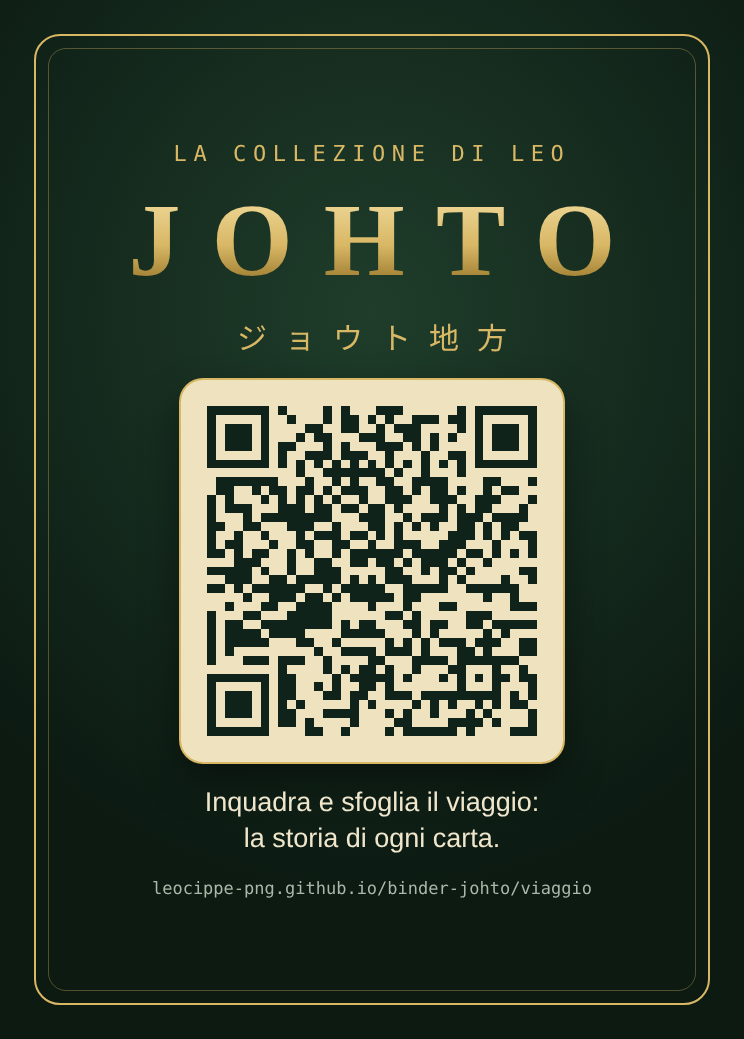
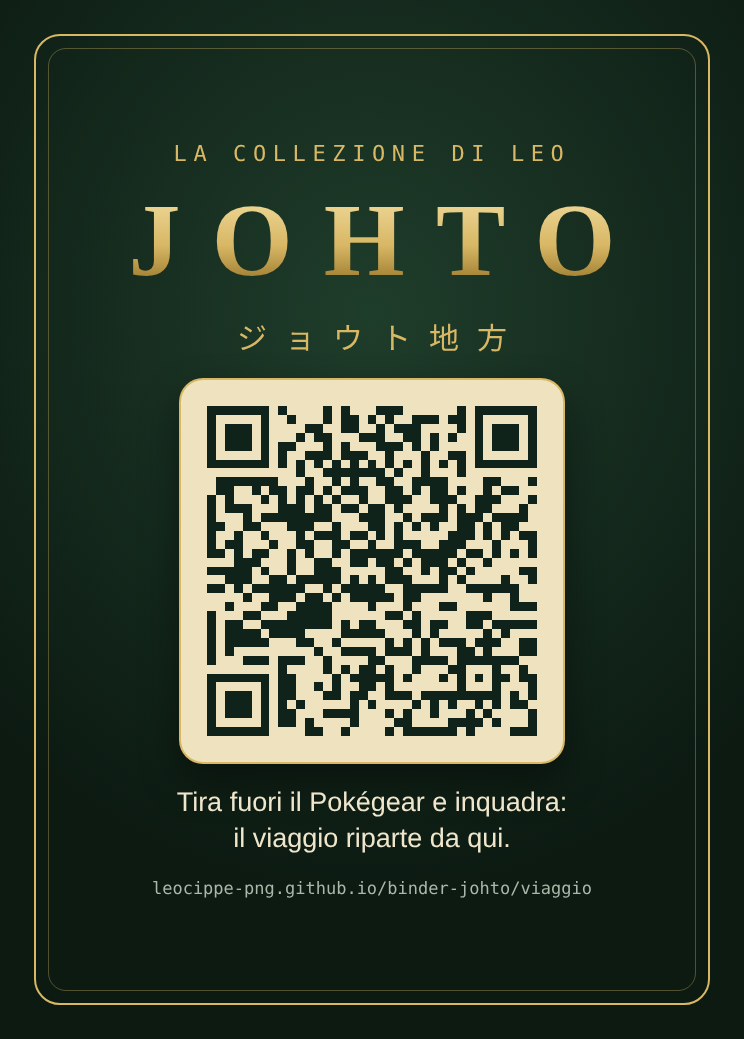
Testi del viaggio riscritti con i ricordi di Johto
- racconti delle 29 tappe (anche nell'app), copertina, introduzione, capitoli, finale e schede delle carte
- stampa del QR con il nuovo invito

Claude-Session: https://claude.ai/code/session_011ix2jEugGi2k3c1ThNinWG

Changed region(s): [[0.2473, 0.7392, 0.7419, 0.8316]]

diff --git a/collezione.js b/collezione.js
@@ -2,7 +2,7 @@
 // Unico file da modificare per cambiare carte e stampe: l'app lo legge all'avvio.
 // Ogni tasca: t = "c" carta / "p" stampa, n = nome, s = set e numero, note, f = anchor · arita · pers · ita
 window.COLLEZIONE={
- versione:"2026-11-17",
+ versione:"2026-11-19",
  medaglie:[["Zefiro",9],["Alveare",13],["Piana",17],["Nebbia",21],["Tempesta",29],["Minerale",27],["Gelo",35],["Levante",37]],
  capitoli:[["Il viaggio inizia",["frontespizio","foglianova","partenza","percorsi-29-32"]],["Le palestre di Johto",["violapoli","alfa","azalina","lecci","fiordoropoli","percorsi-35-36","amarantopoli","torre-bruciata","olivinopoli","faro","fiorlisopoli","vorticose","lago","mogania","ebanopoli"]],["Verso la Lega",["ho-oh","vittoria","superquattro-1","superquattro-2","campione"]],["Dopo la Lega",["luce-ombra","kanto","monte-argento","hgss","vetta"]]],
  set:{
@@ -12,7 +12,7 @@ window.COLLEZIONE={
  nomiInglesi:{"Energia Fuoco":"Fire Energy","Energia Erba":"Grass Energy","Energia Acqua":"Water Energy","Energia Lampo":"Lightning Energy","Energia Metallo":"Metal Energy","Energia Psico":"Psychic Energy","Energia Lotta":"Fighting Energy","Energia Oscurità":"Darkness Energy","Altopiano Blu":"Indigo Plateau","Cinturanera":"Black Belt","Tifo della ragazza pon pon":"Cheerleader's Cheer","Chiacchiere del presentatore":"Emcee's Chatter","Giudice":"Judge","Domande dell'intervistatore":"Interviewer's Questions","Metodo d'allenamento del Prof. Elm":"Professor Elm's Training Method","Teletrasporto di Bill":"Bill's Teleporter","Pescatore":"Fisherman","Trucco del Team Rocket":"Team Rocket's Trickery","Sguardo di Jasmine":"Jasmine's Gaze","Avventura di Ethan":"Ethan's Adventure","Lezione del Prof. Elm":"Professor Elm's Lecture","Valerio (Falkner)":"Falkner","Torre Sprout":"Sprout Tower","Allenamento del Saggio":"Sage's Training","Rovine d'Alfa":"Ruins of Alph","Muro delle Rovine":"Ruin Wall","Litografia di Alfa":"Alph Lithograph","Chiara (Whitney)":"Whitney","Latte Mumù":"Moomoo Milk","Torre Radio":"Radio Tower","Fioraia":"Flower Shop Lady","Sala Giochi":"Arcade Game","Angelo (Morty)":"Morty","Determinazione di Angelo":"Morty's Conviction","Torre Bruciata":"Burned Tower","Gyarados rosso":"Gyarados","Covo Rocket":"Rocket's Hideout","Dewgong Luce":"Light Dewgong","Dragonite Luce":"Light Dragonite","Pino (Will)":"Will","Trappola di Koga":"Koga's Trap","Sfida di Rosso":"Red's Challenge","Energia Arcobaleno":"Rainbow Energy","Feraligatr Prime":"Feraligatr","Donphan Prime":"Donphan"},
  tappe:[
   {id:"frontespizio",title:"Frontespizio",jp:"はじまり",
-   desc:"Pagina singola a destra. Riprende la copertina: la pagoda e il faro, poi la mappa e il via del Prof. Elm.",
+   desc:"Prima di uscire di casa. La pagoda e il faro che si vedono da lontano, la mappa del Pokégear aperta per la prima volta, la porta del laboratorio di Elm.",
    pages:[
     {n:1,h:"Il viaggio comincia",s:[
      {"t":"p","n":"Torre Campana","s":"Stampa oro su verde","note":"Riprende la pagoda dorata della copertina."},
@@ -27,7 +27,7 @@ window.COLLEZIONE={
     ]}
    ]},
   {id:"foglianova",title:"Borgo Foglianova",jp:"ワカバタウン",
-   desc:"Gli starter. A sinistra la linea classica, tutta Expedition, con il Feraligatr di Arita. A destra una pagina intera per Feraligatr: la linea dell'epoca Oro e Argento, quella del remake e il Mega moderno.",
+   desc:"Il vento che soffia sul borgo, la mamma che ti regola l'orologio, tre Poké Ball sul tavolo. A sinistra la scelta di sempre, una linea per riga; a destra il compagno di questo binder, Feraligatr, in tre epoche.",
    pages:[
     {n:2,h:"Expedition, una linea per riga",s:[
      {"t":"c","n":"Chikorita","s":"Expedition 99/165"},
@@ -53,7 +53,7 @@ window.COLLEZIONE={
     ]}
    ]},
   {id:"partenza",title:"La partenza",jp:"はじまりのひ",
-   desc:"Il laboratorio di Elm, le tre Poké Ball sul tavolo e l'uovo misterioso; di fronte Ethan, il protagonista di HeartGold e SoulSilver, con la sua squadra.",
+   desc:"Il laboratorio, la finestra lasciata aperta da un ragazzo dai capelli rossi, l'uovo che ti affida Mr. Pokémon. Di fronte Ethan, che anni dopo ha rifatto la stessa strada.",
    pages:[
     {n:4,h:"Il laboratorio di Elm",s:[
      {"t":"c","n":"Professor Elm","s":"Neo Genesis 96/111","note":"La prima carta del professore, uscita insieme a Oro e Argento.","f":["pers"]},
@@ -79,7 +79,7 @@ window.COLLEZIONE={
     ]}
    ]},
   {id:"percorsi-29-32",title:"Percorsi 29–32",jp:"みち",
-   desc:"I primi incontri sull'erba alta, da Fiorpescopoli fino alla strada per Violapoli.",
+   desc:"Sentret che spunta dall'erba alta, Hoothoot che esce solo di notte: è qui che l'orologio ha cominciato a contare davvero. Il vecchietto di Fiorpescopoli ti fa da guida, poi la strada sale verso Violapoli.",
    pages:[
     {n:6,h:"Percorso 29 e Fiorpescopoli",s:[
      {"t":"c","n":"Sentret","s":"Neo Genesis 71/111","note":"Neo Genesis è il set uscito insieme a Oro e Argento: le prime illustrazioni di Johto in assoluto."},
@@ -105,7 +105,7 @@ window.COLLEZIONE={
     ]}
    ]},
   {id:"violapoli",title:"Violapoli",jp:"キキョウシティ",
-   desc:"La Torre Sprout dei monaci e la palestra volante di Valerio.",
+   desc:"La Torre Sprout che ondeggia a ogni passo attorno al suo pilastro, i monaci con i loro Bellsprout; poi Valerio e i suoi uccelli, la prima medaglia.",
    pages:[
     {n:8,h:"Torre Sprout",s:[
      {"t":"c","n":"Torre Sprout","s":"Neo Genesis 97/111 · Stadio","note":"La torre di legno di Violapoli come carta stadio dell'epoca."},
@@ -131,7 +131,7 @@ window.COLLEZIONE={
     ]}
    ]},
   {id:"alfa",title:"Rovine d'Alfa",jp:"アルフのいせき",
-   desc:"Le prime righe delle due pagine, lette a binder aperto, scrivono J O H T O ! con gli Unown.",
+   desc:"Le lastre da ricomporre, i segni sulle pareti che nessuno sapeva leggere. Apri il binder e leggi le prime righe delle due pagine, da sinistra a destra.",
    pages:[
     {n:10,h:"La camera degli enigmi",s:[
      {"t":"c","n":"Unown J","s":"Legends Awakened 76/146"},
@@ -157,7 +157,7 @@ window.COLLEZIONE={
     ]}
    ]},
   {id:"azalina",title:"Azalina",jp:"ヒワダタウン",
-   desc:"La Grotta di Mezzo e il Pozzo Slowpoke, dove il Team Rocket taglia le code; di fronte la palestra di Raffaello.",
+   desc:"Il pozzo dove i Rocket tagliavano le code agli Slowpoke, Franz e le sue Ball ricavate dalle ghicocche; di fronte Raffaello e quello Scyther che ti ha fatto sudare.",
    pages:[
     {n:12,h:"Grotta di Mezzo e Pozzo Slowpoke",s:[
      {"t":"c","n":"Slowpoke","s":"30th Celebration 016/128","note":"Gli Slowpoke del pozzo, a cui il Team Rocket taglia la coda. Dal set del 30° anniversario."},
@@ -183,7 +183,7 @@ window.COLLEZIONE={
     ]}
    ]},
   {id:"lecci",title:"Bosco di Lecci e Pensione Pokémon",jp:"ウバメのもり",
-   desc:"Il santuario di Celebi nel bosco; di fronte la Pensione Pokémon sul Percorso 34, dove nascono le uova e i Pokémon baby.",
+   desc:"Il bosco dove il Farfetch'd ti scappa sempre dalla parte sbagliata, il piccolo santuario di legno e chi viaggia nel tempo. Di fronte la Pensione sul Percorso 34: lasci due Pokémon e, al ritorno, trovi un uovo.",
    pages:[
     {n:14,h:"Il santuario del bosco",s:[
      {"t":"c","n":"Celebi","s":"Neo Revelation 3/64 · holo","note":"Il Celebi dell'era Oro e Argento, per il santuario del Bosco di Lecci."},
@@ -209,7 +209,7 @@ window.COLLEZIONE={
     ]}
    ]},
   {id:"fiordoropoli",title:"Fiordoropoli",jp:"コガネシティ",
-   desc:"La città più grande: la Torre Radio, la Sala Giochi, Bill e il suo Eevee; di fronte la palestra di Chiara.",
+   desc:"La città grande: la Sala Giochi, la Torre Radio, il Treno Magnetico ancora fermo, Bill che ti affida il suo Eevee. Di fronte Chiara, il suo Miltank e un Rotolamento che non si dimentica; quando perde, scoppia a piangere.",
    pages:[
     {n:16,h:"Torre Radio e Sala Giochi",s:[
      {"t":"c","n":"Torre Radio","s":"Neo Destiny 95/105 · Stadio","note":"La Torre Radio di Fiordoropoli, poi occupata dal Team Rocket."},
@@ -235,7 +235,7 @@ window.COLLEZIONE={
     ]}
    ]},
   {id:"percorsi-35-36",title:"Percorsi 35–36",jp:"しぜんこうえん",
-   desc:"Il Parco Nazionale con la gara Pigliamosche e il finto albero che blocca il Percorso 36.",
+   desc:"Il Parco Nazionale e la Gara Pigliamosche, il martedì, il giovedì e il sabato. Poco più avanti, un albero che si muove quando lo bagni.",
    pages:[
     {n:18,h:"Parco Nazionale",s:[
      {"t":"p","n":"Parco Nazionale","s":"Stampa"},
@@ -261,7 +261,7 @@ window.COLLEZIONE={
     ]}
    ]},
   {id:"amarantopoli",title:"Amarantopoli",jp:"エンジュシティ",
-   desc:"La città antica: le cinque ragazze kimono con le evoluzioni di Eevee; di fronte la palestra di Angelo.",
+   desc:"La città più antica di Johto: il teatro delle danze, le cinque sorelle in kimono con le loro Eevee evolute, due torri che si guardano da lontano. Di fronte Angelo, che si allena da sempre per vedere un Pokémon leggendario.",
    pages:[
     {n:20,h:"Le ragazze kimono",s:[
      {"t":"c","n":"Espeon","s":"Undaunted 2/90 · holo","note":"Tutta la pagina viene da Undaunted: le cinque ragazze kimono e i loro Eevee evoluti sono una scena del remake."},
@@ -287,7 +287,7 @@ window.COLLEZIONE={
     ]}
    ]},
   {id:"torre-bruciata",title:"Torre Bruciata",jp:"やけたとう",
-   desc:"La torre andata a fuoco, da cui fuggono Raikou, Entei e Suicune; di fronte le tre Bestie in tutte le loro versioni.",
+   desc:"Una torre arsa in una notte di temporale, tre Pokémon caduti tra le fiamme e riportati in vita da un uccello arcobaleno. Scendi nel sotterraneo: si alzano e corrono via. Uno lo inseguirai per tutta Johto.",
    pages:[
     {n:22,h:"Torre Bruciata",s:[
      {"t":"p","n":"Il risveglio","s":"Stampa","note":"Le tre Bestie che fuggono dalla Torre Bruciata."},
@@ -313,7 +313,7 @@ window.COLLEZIONE={
     ]}
    ]},
   {id:"olivinopoli",title:"Percorsi 38–39 e Olivinopoli",jp:"アサギシティ",
-   desc:"La Fattoria MuMu sulla strada per il mare, poi il porto di Olivinopoli.",
+   desc:"La Fattoria MuMu, il latte che rimette in piedi la squadra, il Miltank malato che guarisce con le bacche. Poi l'odore del porto e la nave che porta a Kanto.",
    pages:[
     {n:24,h:"Fattoria MuMu",s:[
      {"t":"p","n":"Fattoria MuMu","s":"Stampa"},
@@ -339,7 +339,7 @@ window.COLLEZIONE={
     ]}
    ]},
   {id:"faro",title:"Faro di Olivinopoli",jp:"とうだい",
-   desc:"Il faro dove Jasmine assiste Amphy, l'Ampharos malato; di fronte la sua palestra.",
+   desc:"Il faro senza luce: in cima Amphy respira a fatica e Jasmine non vuole lasciarla sola. Torni da Fiorlisopoli con la medicina, e solo allora lei scende ad aspettarti in palestra.",
    pages:[
     {n:26,h:"Il faro e Amphy",s:[
      {"t":"p","n":"Amphy al faro","s":"Stampa","note":"L'Ampharos malato che Jasmine assiste in cima al faro; la medicina arriva da Fiorlisopoli, sulla pagina accanto."},
@@ -365,7 +365,7 @@ window.COLLEZIONE={
     ]}
    ]},
   {id:"fiorlisopoli",title:"Fiorlisopoli",jp:"タンバシティ",
-   desc:"Dall'altra parte del mare, la città della farmacia e di Furio.",
+   desc:"Dall'altra parte del mare, a nuoto o in Surf: la farmacia con la medicina per Amphy e Furio che si allena sotto la cascata con il suo Poliwrath.",
    pages:[
     {n:28,h:"Percorsi 40–41 e Fiorlisopoli",s:[
      {"t":"p","n":"Farmacia di Fiorlisopoli","s":"Stampa","note":"Dove si compra la Medicina Segreta per Amphy."},
@@ -391,7 +391,7 @@ window.COLLEZIONE={
     ]}
    ]},
   {id:"vorticose",title:"Isole Vorticose",jp:"うずまきじま",
-   desc:"Il mare tra Olivinopoli e Fiorlisopoli e, negli abissi delle isole, Lugia.",
+   desc:"Le correnti che girano attorno alle isole, scale nel buio, un vortice dopo l'altro fino in fondo. Lì, nella grotta più profonda, Lugia.",
    pages:[
     {n:30,h:"Il mare delle isole",s:[
      {"t":"c","n":"Remoraid","s":"Aquapolis 105","note":"Illustrata da Mitsuhiro Arita.","f":["arita"]},
@@ -417,7 +417,7 @@ window.COLLEZIONE={
     ]}
    ]},
   {id:"lago",title:"Lago d'Ira e Mogania",jp:"いかりのみずうみ",
-   desc:"Il Gyarados rosso e Lance al lago; di fronte il covo del Team Rocket sotto il negozio di Mogania.",
+   desc:"Un segnale ha costretto i Magikarp del lago a evolversi: in mezzo, un Gyarados rosso. Sulla riva Lance ti chiede di seguirlo; a Mogania, sotto il negozio di souvenir, il covo del Team Rocket.",
    pages:[
     {n:32,h:"Lago d'Ira",s:[
      {"t":"c","n":"Gyarados rosso","s":"HeartGold SoulSilver 123/123 · segreta","note":"Il Gyarados shiny del Lago d'Ira, carta segreta del set HGSS.","f":["anchor"]},
@@ -443,7 +443,7 @@ window.COLLEZIONE={
     ]}
    ]},
   {id:"mogania",title:"Via Gelata e palestra di Alfredo",jp:"チョウジタウン",
-   desc:"La Via Gelata verso Ebanopoli; di fronte la palestra di ghiaccio di Alfredo.",
+   desc:"La Via Gelata e il ghiaccio che scivola sotto i piedi. Poi Alfredo, il capopalestra più anziano, in fondo a una palestra di lastre su cui scivolare fino a lui.",
    pages:[
     {n:34,h:"Via Gelata",s:[
      {"t":"c","n":"Swinub","s":"Journey Together 165/159 · IR"},
@@ -469,7 +469,7 @@ window.COLLEZIONE={
     ]}
    ]},
   {id:"ebanopoli",title:"Ebanopoli",jp:"フスベシティ",
-   desc:"La Tana del Drago dietro la palestra; di fronte Sandra e la sua palestra.",
+   desc:"La città dei domatori di draghi. Sandra ti dà la medaglia solo dopo la prova del Saggio nella Tana del Drago, dove nel laghetto nuota un Dratini.",
    pages:[
     {n:36,h:"Tana del Drago",s:[
      {"t":"p","n":"Tana del Drago","s":"Stampa"},
@@ -495,7 +495,7 @@ window.COLLEZIONE={
     ]}
    ]},
   {id:"ho-oh",title:"Torre Campana e Ho-Oh",jp:"スズのとう",
-   desc:"La torre di Amarantopoli e, in cima, Ho-Oh con i Pokémon di Ethan.",
+   desc:"La torre d'oro di Amarantopoli, chiusa a chi non porta la piuma giusta. In cima, nella luce, Ho-Oh.",
    pages:[
     {n:38,h:"Torre Campana",s:[
      {"t":"p","n":"Torre Campana al tramonto","s":"Stampa"},
@@ -521,7 +521,7 @@ window.COLLEZIONE={
     ]}
    ]},
   {id:"vittoria",title:"Percorsi 45–46 e Via Vittoria",jp:"チャンピオンロード",
-   desc:"Le strade di montagna a sud di Ebanopoli, con i Pokémon dei Percorsi 45 e 46 e il Dunsparce della Grotta Scura; di fronte la Via Vittoria verso l'Altopiano Blu.",
+   desc:"La lunga strada verso la Lega: i Percorsi 45 e 46 in discesa ripida, la Grotta Scura e il Dunsparce che nessuno trova al primo colpo, e infine la Via Vittoria, dove il rivale ti aspetta un'ultima volta.",
    pages:[
     {n:40,h:"Percorso 45 e Grotta Scura",s:[
      {"t":"c","n":"Spearow","s":"Unleashed 62/95","note":"Spearow e Fearow vivono sui Percorsi 45 e 46."},
@@ -547,7 +547,7 @@ window.COLLEZIONE={
     ]}
    ]},
   {id:"superquattro-1",title:"Superquattro · Pino e Koga",jp:"してんのう",
-   desc:"Una pagina per ciascuno, con lo stesso schema delle palestre: stanza, allenatore, asso.",
+   desc:"Le porte si chiudono alle tue spalle. Pino e la sua maschera, poi Koga, che a Kanto era un capopalestra e qui siede tra i Superquattro.",
    pages:[
     {n:42,h:"Pino",s:[
      {"t":"p","n":"Stanza di Pino","s":"Stampa","note":"La sala psichica. Le quattro stanze, una per colonna, usano la stessa cornice."},
@@ -573,7 +573,7 @@ window.COLLEZIONE={
     ]}
    ]},
   {id:"superquattro-2",title:"Superquattro · Bruno e Karen",jp:"してんのう",
-   desc:"Gli ultimi due dei Superquattro, sempre una pagina ciascuno.",
+   desc:"Bruno, che lotta a mani nude, e Karen, per cui contano i Pokémon che ami, non quelli più forti.",
    pages:[
     {n:44,h:"Bruno",s:[
      {"t":"p","n":"Stanza di Bruno","s":"Stampa","note":"La sala della lotta."},
@@ -599,7 +599,7 @@ window.COLLEZIONE={
     ]}
    ]},
   {id:"campione",title:"Il Campione",jp:"チャンピオン",
-   desc:"Lance, il Campione, e la Sala d'Onore.",
+   desc:"Lance e i suoi Dragonite, poi una stanza silenziosa dove la tua squadra resta registrata per sempre.",
    pages:[
     {n:46,h:"Lance",s:[
      {"t":"p","n":"Stanza del Campione","s":"Stampa","note":"Stessa cornice delle quattro stanze, in oro."},
@@ -625,7 +625,7 @@ window.COLLEZIONE={
     ]}
    ]},
   {id:"luce-ombra",title:"Silver e le energie di Johto",jp:"ライバルとエネルギー",
-   desc:"Il rivale Silver, figlio di Giovanni, con la squadra nelle versioni Dark di Neo Destiny; di fronte le energie base di HeartGold e SoulSilver, con i Pokémon e i luoghi simbolo di Johto sullo sfondo.",
+   desc:"Il ragazzo dai capelli rossi del laboratorio, che a ogni incontro cambia un po'. Di fronte le energie, con Johto sullo sfondo.",
    pages:[
     {n:48,h:"Il rivale Silver",s:[
      {"t":"p","n":"Silver","s":"Stampa","note":"Silver non ha una carta allenatore."},
@@ -651,7 +651,7 @@ window.COLLEZIONE={
     ]}
    ]},
   {id:"kanto",title:"Kanto",jp:"カントー",
-   desc:"Dopo la Lega il viaggio prosegue a Kanto: Misty ed Erika con le loro medaglie, poi tre tappe con i loro Pokémon. Zapdos e Articuno arrivano dal set Fossil; Moltres chiude il trio sul Monte Argento.",
+   desc:"Il Treno Magnetico ti riporta dove tutto era cominciato: Misty a Celestopoli, Erika tra i fiori di Azzurropoli, uno Snorlax che si sveglia solo con la musica giusta alla radio, e tre leggende che tornano dal primo viaggio.",
    pages:[
     {n:50,h:"Le capopalestra di Kanto",s:[
      {"t":"p","n":"Medaglia Cascata","s":"Stampa","note":"Stampa medaglia"},
@@ -677,7 +677,7 @@ window.COLLEZIONE={
     ]}
    ]},
   {id:"monte-argento",title:"Monte Argento",jp:"シロガネやま",
-   desc:"Le pendici e la grotta della montagna più alta, dove si sale solo dopo aver vinto le sedici medaglie. Fuori le due coppie esclusive di Oro e Argento, dentro la linea di Larvitar e Moltres.",
+   desc:"Sedici medaglie, e solo allora ti lasciano salire. Fuori i Pokémon che si trovavano solo in Oro o solo in Argento; dentro il buio, un Larvitar, e in fondo una sagoma ferma nella neve.",
    pages:[
     {n:52,h:"Le pendici del Monte Argento",s:[
      {"t":"p","n":"Percorso 28","s":"Stampa","note":"L'unica strada per il Monte Argento parte da Kanto."},
@@ -703,7 +703,7 @@ window.COLLEZIONE={
     ]}
    ]},
   {id:"hgss",title:"Le novità di HeartGold e SoulSilver",jp:"ハートゴールド・ソウルシルバー",
-   desc:"Quello che il remake ha aggiunto a Johto: la Zona Safari oltre Fiorlisopoli, il Pokéathlon e il Parco Lotta, con i personaggi di HGSS nelle carte allenatore di Unleashed.",
+   desc:"Quello che il ritorno a Johto ci ha regalato: il Pokémon che ti segue a piedi, la Zona Safari oltre Fiorlisopoli, il Pokéathlon e il Parco Lotta.",
    pages:[
     {n:54,h:"Zona Safari di Johto",s:[
      {"t":"p","n":"Zona Safari di Johto","s":"Stampa","note":"Aggiunta in HeartGold e SoulSilver, oltre Fiorlisopoli sui Percorsi 47 e 48."},
@@ -729,7 +729,7 @@ window.COLLEZIONE={
     ]}
    ]},
   {id:"vetta",title:"La battaglia finale",jp:"さいごのたたかい",
-   desc:"Pagina singola a sinistra, la chiusura del binder: in vetta al Monte Argento, l'ultima battaglia contro Rosso.",
+   desc:"Nessuna musica, solo il vento. Rosso non dice niente: si gira, e la lotta comincia.",
    pages:[
     {n:56,h:"La battaglia finale",s:[
      {"t":"p","n":"Monte Argento","s":"Stampa","note":"La vetta innevata, ultimo luogo del gioco."},

diff --git a/viaggio.html b/viaggio.html
@@ -4,7 +4,7 @@
 <meta charset="utf-8">
 <meta name="viewport" content="width=device-width,initial-scale=1,viewport-fit=cover">
 <meta name="theme-color" content="#0c1a12">
-<meta name="description" content="Il viaggio di Johto: la collezione di Leo in 56 pagine, da Borgo Foglianova al Monte Argento.">
+<meta name="description" content="Regola l'orologio, saluta la mamma: cinquantasei pagine da Borgo Foglianova alla neve del Monte Argento.">
 <meta name="apple-mobile-web-app-capable" content="yes">
 <meta name="apple-mobile-web-app-status-bar-style" content="black-translucent">
 <link rel="icon" href="icons/icon-192.png">
@@ -160,9 +160,9 @@ h1,h2,h3{font-family:var(--f-display);font-weight:800;margin:0;text-wrap:balance
   <h1>JOHTO</h1>
   <span class="jp">ジョウト地方</span>
   <div class="rule" aria-hidden="true"></div>
-  <p class="lead">Un viaggio in 56 pagine, da Borgo Foglianova alla cima del Monte Argento.</p>
-  <div class="cta"><a class="btn gold" href="#intro">Inizia il viaggio</a><a class="btn" href="#mappa">Le tappe</a></div>
-  <span class="by" id="by">Sfoglia il binder con questa guida accanto: tocca una carta per leggerne la storia.</span>
+  <p class="lead">Regola l'orologio, saluta la mamma: cinquantasei pagine da Borgo Foglianova alla neve del Monte Argento.</p>
+  <div class="cta"><a class="btn gold" href="#intro">Esci di casa</a><a class="btn" href="#mappa">Apri la mappa</a></div>
+  <span class="by" id="by">Tieni il binder aperto accanto a te: tocca una carta e scopri dove l'hai già incontrata.</span>
  </div>
  <span class="scroll-hint" aria-hidden="true">scorri ↓</span>
 </header>
@@ -170,24 +170,24 @@ h1,h2,h3{font-family:var(--f-display);font-weight:800;margin:0;text-wrap:balance
 <main class="wrap">
  <section id="intro">
   <div class="facts" id="facts"></div>
-  <p class="intro">Ogni doppia pagina del binder è una tappa del viaggio di Oro e Argento: <em>tutti i cento Pokémon di Johto</em>, gli otto capopalestra, la Lega, Kanto e infine Rosso, in cima al Monte Argento. Tra una carta e l'altra, stampe originali in oro su verde raccontano i luoghi.</p>
+  <p class="intro">Ogni doppia pagina è un posto in cui sei già stato: l'erba alta del Percorso 29, la torre che ondeggia, il Miltank di Chiara, il lago diventato rosso. Ci sono <em>tutti i cento Pokémon di Johto</em>, gli otto capopalestra, la Lega, il ritorno a Kanto e, alla fine, chi ti aspetta in cima. Dove un luogo non ha una carta tutta sua, c'è una stampa in oro su verde.</p>
  </section>
  <nav class="map" id="mappa" aria-label="Le tappe del viaggio"></nav>
  <div id="journey"></div>
 </main>
 
 <section class="band" id="medaglie"><div class="wrap">
- <span class="mono" style="display:block;text-align:center">Le otto palestre</span>
- <h2>Le medaglie di Johto</h2>
+ <span class="mono" style="display:block;text-align:center">Scheda allenatore</span>
+ <h2>Otto medaglie, una per città</h2>
  <div class="medals" id="medals"></div>
  <p class="thanks" id="thanks" hidden></p>
 </div></section>
 
 <section class="end"><div class="wrap">
- <span class="mono">Pagina 56</span>
- <h2>In cima al Monte Argento</h2>
- <p>Il viaggio finisce dove finisce il gioco: davanti a Rosso, in silenzio, nella neve. Chiudi il binder e ricomincia da Borgo Foglianova quando vuoi.</p>
- <div class="cta" style="margin-top:24px"><a class="btn" href="#top">Torna alla copertina</a></div>
+ <span class="mono">Pagina 56 · Monte Argento</span>
+ <h2>« … »</h2>
+ <p>In cima c'è qualcuno che aspetta da anni e non dice una parola. Chiudi il binder quando sei pronto: il viaggio resta salvato qui.</p>
+ <div class="cta" style="margin-top:24px"><a class="btn" href="#top">Ricomincia da Foglianova</a></div>
 </div></section>
 <p class="foot">Il binder Johto di Leo · immagini delle carte da <a href="https://tcgdex.dev" target="_blank" rel="noopener">TCGdex</a> · Pokémon e i suoi marchi appartengono ai rispettivi proprietari.</p>
 
@@ -241,14 +241,15 @@ const pocket=x=>`<button class="pk" data-id="${x.id}" aria-label="${esc(itName(x
 
 // ---- costruzione del racconto ----
 const ROMAN=["I","II","III","IV","V","VI","VII","VIII"];
+const CH_V=["Il vento di Foglianova","Otto città, otto medaglie","La strada per l'Altopiano","Dopo i titoli di coda"];
 const MEDAL_PAGE={};(D.medaglie||[]).forEach(([nm,pg])=>MEDAL_PAGE[pg]=nm);
 function pagesLabel(t){const ns=t.pages.map(p=>p.n);return ns.length>1?`pp. ${ns[0]}–${ns[ns.length-1]}`:`p. ${ns[0]}`}
 function buildStatic(){const cards=POCKETS.filter(x=>x.t==="c").length,prints=POCKETS.length-cards;
  document.getElementById("facts").innerHTML=[[D.tappe.length,"tappe"],[56,"pagine"],[POCKETS.length,"tasche"],[cards,"carte"],[prints,"stampe originali"],[(D.medaglie||[]).length,"medaglie"]].map(([n,l])=>`<div class="fact"><b>${n}</b><span>${l}</span></div>`).join("");
  const ix={};D.tappe.forEach((t,i)=>ix[t.id]=i);
- document.getElementById("mappa").innerHTML=`<span class="mono">Le tappe</span>`+D.capitoli.map(([title,ids],ci)=>`<div class="map-ch"><h3>${ROMAN[ci]} · ${esc(title)}</h3><div class="map-list">${ids.filter(id=>id in ix).map(id=>{const t=D.tappe[ix[id]];return `<a href="#t-${t.id}"><small>${pagesLabel(t)}</small>${esc(t.title)}</a>`}).join("")}</div></div>`).join("")}
+ document.getElementById("mappa").innerHTML=`<span class="mono">La mappa del Pokégear</span>`+D.capitoli.map(([title,ids],ci)=>`<div class="map-ch"><h3>${ROMAN[ci]} · ${esc(CH_V[ci]||title)}</h3><div class="map-list">${ids.filter(id=>id in ix).map(id=>{const t=D.tappe[ix[id]];return `<a href="#t-${t.id}"><small>${pagesLabel(t)}</small>${esc(t.title)}</a>`}).join("")}</div></div>`).join("")}
 function buildJourney(){const ix={};D.tappe.forEach((t,i)=>ix[t.id]=i);let h="";
- D.capitoli.forEach(([title,ids],ci)=>{h+=`<header class="chapter reveal"><span class="num">${ROMAN[ci]}</span><span class="mono">Capitolo ${ci+1}</span><h2>${esc(title)}</h2><div class="rule"></div></header>`;
+ D.capitoli.forEach(([title,ids],ci)=>{h+=`<header class="chapter reveal"><span class="num">${ROMAN[ci]}</span><span class="mono">Capitolo ${ci+1}</span><h2>${esc(CH_V[ci]||title)}</h2><div class="rule"></div></header>`;
   ids.filter(id=>id in ix).forEach(id=>{const ti=ix[id],t=D.tappe[ti];const pages=t.pages.length===1?(ti===0?[null,t.pages[0]]:[t.pages[0],null]):t.pages;
    const med=t.pages.map(p=>MEDAL_PAGE[p.n]).find(Boolean);
    h+=`<section class="stop reveal" id="t-${t.id}"><div class="stop-head"><span class="stop-n">${ti+1}</span><span class="mono">${pagesLabel(t)}</span><h3>${esc(t.title)}</h3><span class="jp">${esc(t.jp||"")}</span>${med?`<span class="medal-chip"><svg viewBox="0 0 63 76" aria-hidden="true">${medal(med)}</svg>Medaglia ${esc(med)}</span>`:""}<p>${esc(t.desc||"")}</p></div>
@@ -256,7 +257,7 @@ function buildJourney(){const ix={};D.tappe.forEach((t,i)=>ix[t.id]=i);let h="";
  document.getElementById("journey").innerHTML=h;
  document.getElementById("medals").innerHTML=POCKETS.filter(x=>/^Medaglia /.test(x.n)).map(pocket).join("");
  const fr=[...new Set(POCKETS.map(x=>x.consiglio).filter(Boolean))];const th=document.getElementById("thanks");th.hidden=!fr.length;
- if(fr.length)th.innerHTML=`Alcune carte le hanno scelte gli amici di Leo: grazie a <b>${fr.map(esc).join("</b>, <b>")}</b>.`;
+ if(fr.length)th.innerHTML=`Alcune tasche le hanno riempite i consigli degli amici: grazie a <b>${fr.map(esc).join("</b>, <b>")}</b>, compagni di scambio.`;
  observe()}
 
 // ---- comparsa dolce e immagini caricate quando servono ----
@@ -272,12 +273,12 @@ function openLb(id,scope){lastFocus=document.activeElement;LB=scope;LBi=Math.max
 function paintLb(){const x=BYID[LB[LBi]],p=parseSet(x.s),r=Math.floor(+x.id.split("-")[1]/3)+1,c=+x.id.split("-")[1]%3+1;
  const k=upKey(x);document.getElementById("lb-art").innerHTML=k?`<img alt="" data-up="${esc(k)}"${UPIMG[k]?` src="${UPIMG[k]}"`:""}>`:(cardUrl(x,"high")?`<img alt="" src="${esc(cardUrl(x,"high"))}" onerror="imgFail(this)">`:visual(x,"high"));if(k)loadUp(k);
  document.getElementById("lb-art").dataset.id=x.id;
- document.getElementById("lb-k").textContent=(x.t==="p"?"Stampa originale":"Carta")+" · "+D.tappe[x.tappa].title;
+ document.getElementById("lb-k").textContent=(x.t==="p"?"Stampa in oro su verde":"Carta")+" · "+D.tappe[x.tappa].title;
  document.getElementById("lb-name").textContent=itName(x.n);
  document.getElementById("lb-set").textContent=x.t==="p"?"Illustrazione oro su verde, 63×88 mm":`${setIt(p.set)}${p.num?" · "+p.num:""}${p.variant?" · "+p.variant:""}`;
- document.getElementById("lb-tags").innerHTML=x.f.filter(f=>f==="pers").map(()=>`<span>Personaggio di Johto</span>`).join("")+(x.consiglio?`<span>Consigliata da ${esc(x.consiglio)}</span>`:"");
- const note=x.note||(x.t==="p"?"Una delle stampe originali che raccontano i luoghi del viaggio.":"");document.getElementById("lb-note").textContent=note;document.getElementById("lb-note").hidden=!note;
- document.getElementById("lb-pos").textContent=`Nel binder: pagina ${x.page}, riga ${r}, colonna ${c} · ${x.pageTitle}`;
+ document.getElementById("lb-tags").innerHTML=x.f.filter(f=>f==="pers").map(()=>`<span>Un volto di Johto</span>`).join("")+(x.consiglio?`<span>Scelta su consiglio di ${esc(x.consiglio)}</span>`:"");
+ const note=x.note||(x.t==="p"?"Un luogo che non ha una carta tutta sua, disegnato in oro su verde.":"");document.getElementById("lb-note").textContent=note;document.getElementById("lb-note").hidden=!note;
+ document.getElementById("lb-pos").textContent=`La trovi a pagina ${x.page}, riga ${r}, colonna ${c} · ${x.pageTitle}`;
  document.getElementById("lb-prev").disabled=LBi===0;document.getElementById("lb-next").disabled=LBi===LB.length-1}
 function closeLb(){lb.hidden=true;document.body.style.overflow="";lastFocus&&lastFocus.focus&&lastFocus.focus({preventScroll:true})}
 document.addEventListener("click",e=>{const b=e.target.closest(".pk");if(!b)return;const sc=b.closest(".book,.medals");const scope=[...(sc||document).querySelectorAll(".pk")].map(z=>z.dataset.id);openLb(b.dataset.id,scope)});

diff --git a/sw.js b/sw.js
@@ -1,5 +1,5 @@
 // Binder Johto · funziona anche senza rete (in fiera): tiene una copia dell'app sul telefono.
-const CACHE = "johto-v10", IMG = "johto-img";
+const CACHE = "johto-v11", IMG = "johto-img";
 const SHELL = ["./", "index.html", "collezione.js", "arte.js", "viaggio.html", "adapter.js", "firebase-config.js", "stato-iniziale.js", "manifest.webmanifest", "icons/icon-192.png", "icons/icon-512.png"];
 self.addEventListener("install", e => { e.waitUntil(caches.open(CACHE).then(c => c.addAll(SHELL)).then(() => self.skipWaiting())); });
 self.addEventListener("activate", e => { e.waitUntil(caches.keys().then(ks => Promise.all(ks.filter(k => k !== CACHE && k !== IMG).map(k => caches.delete(k)))).then(() => self.clients.claim())); });
